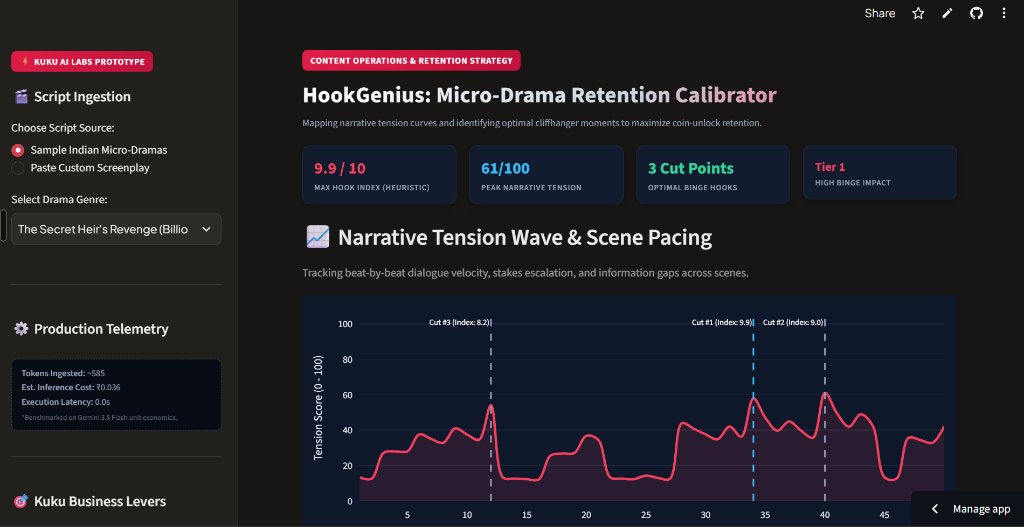
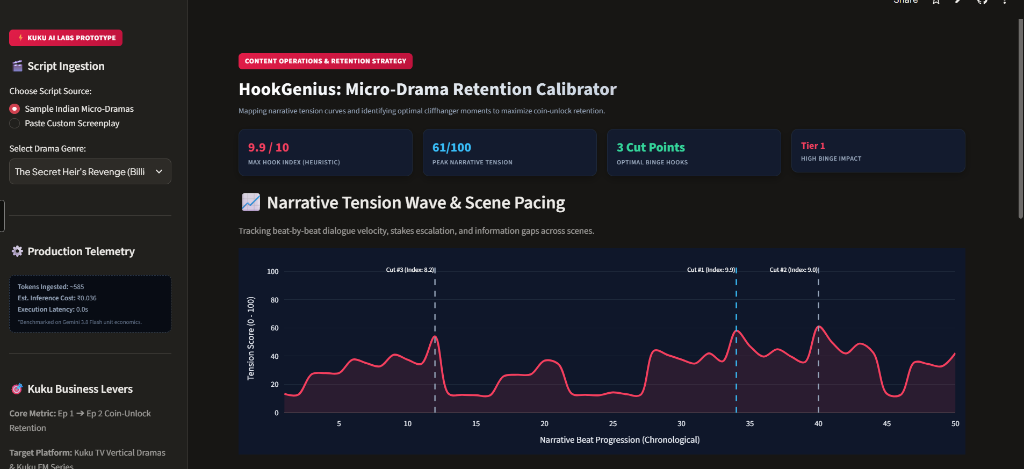
docs: upgrade to high-res hero screenshot and add cut points breakdown image

diff --git a/README.md b/README.md
@@ -100,10 +100,12 @@ Displays real-time execution costs in the sidebar:
 * **Estimated Inference Cost:** ~₹0.036 per script (benchmarked on Gemini 3.8 Flash pricing)
 * **Execution Latency:** Sub-second (0.0s - 0.2s)
 
-### 6. A/B Testing Framework (Hook Doctor)
-Instead of a single subjective rewrite, HookGenius generates **two distinct psychological variations**:
+### 6. A/B Testing Framework (Hook Doctor) & Cut Recommendations
+Instead of a single subjective rewrite, HookGenius provides transparent rubric-graded cut points and generates **two distinct psychological variations**:
 * **Variant A (Loss Aversion & Urgent Countdown):** Immediate survival clock or asset freeze.
 * **Variant B (Status Inversion & Identity Reveal):** Power dynamic reversal and unmasked secrets.
+
+![Recommended Cuts & A/B Hook Doctor](docs/assets/cuts_and_doctor.png)
 
 ---
 
